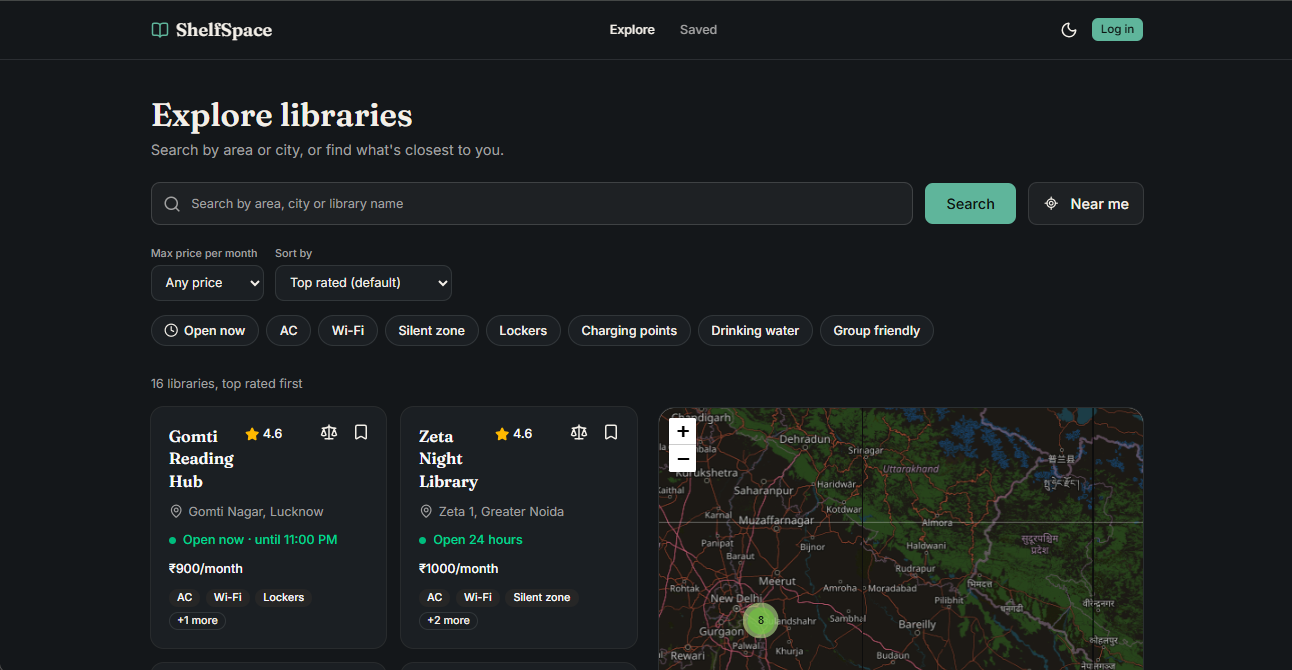
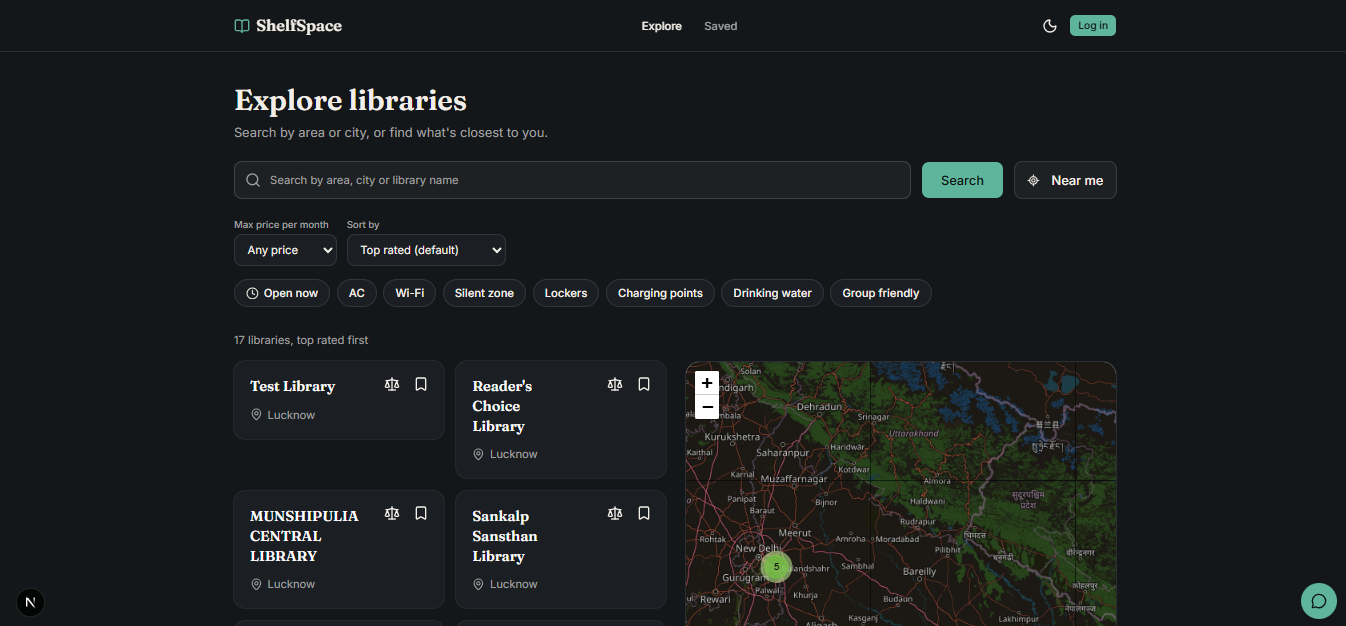
chore: remove sample data, add schema, README and env example for the real backend

diff --git a/src/app/api/ai-chat/route.ts b/src/app/api/ai-chat/route.ts
@@ -3,8 +3,21 @@ import { askAssistant, type ChatMessage } from "@/lib/ai";
 
 export async function POST(request: Request) {
   const body = await request.json().catch(() => null);
-  const messages: ChatMessage[] = Array.isArray(body?.messages) ? body.messages.slice(-6) : [];
-  if (messages.length === 0) return NextResponse.json({ error: "Missing messages" }, { status: 400 });
+  const messages: ChatMessage[] = (
+    Array.isArray(body?.messages) ? body.messages : []
+  )
+    .slice(-6)
+    .filter(
+      (m: ChatMessage) =>
+        (m?.role === "user" || m?.role === "assistant") &&
+        typeof m?.content === "string",
+    )
+    .map((m: ChatMessage) => ({
+      role: m.role,
+      content: m.content.slice(0, 500),
+    }));
+  if (messages.length === 0)
+    return NextResponse.json({ error: "Missing messages" }, { status: 400 });
 
   try {
     const reply = await askAssistant(messages);

diff --git a/src/lib/recommend.ts b/src/lib/recommend.ts
@@ -16,7 +16,7 @@ function amenitySimilarity(a: Library, b: Library): number {
 function priceSimilarity(a: Library, b: Library): number {
   const pa = a.details?.monthlyPrice;
   const pb = b.details?.monthlyPrice;
-  if (pa === undefined || pb === undefined) return 0.5; // unknown: stay neutral
+  if (pa === undefined || pb === undefined) return 0; // unknown: stay neutral
   const diff = Math.abs(pa - pb) / Math.max(pa, pb);
   return Math.max(0, 1 - diff * 2);
 }

diff --git a/src/components/footer.tsx b/src/components/footer.tsx
@@ -22,7 +22,7 @@ export function Footer() {
         </nav>
       </div>
       <div className="border-t py-4 text-center text-xs text-muted-foreground">
-        © {new Date().getFullYear()} ShelfSpace. A student project.
+        © {new Date().getFullYear()} ShelfSpace. A student project. Library locations from OpenStreetMap; fees and timings are added as they are verified.
       </div>
     </footer>
   );

diff --git a/src/lib/constants.ts b/src/lib/constants.ts
@@ -28,6 +28,6 @@ export function resolveSort(sort: SortKey | null | undefined, hasLocation: boole
   return sort ?? (hasLocation ? "distance" : "rating");
 }
 
-export const USING_SAMPLE_DATA = true;
+export const USING_SAMPLE_DATA = false;
 
 export const COMPARE_MAX = 3;

diff --git a/README.md b/README.md
@@ -6,92 +6,119 @@ Find libraries and study spaces near you, with the fees, timings and amenities t
 
 ![ShelfSpace landing page](docs/screenshots/landing.png)
 
-> **Status:** the frontend is complete and runs on sample data. The Supabase backend (real data and accounts) is the next phase.
+> **Data status:** library names and locations are real, imported from OpenStreetMap. Fees, timings and amenities are added only after manual verification, so only a few libraries have them so far. Everything else shows "Not verified yet" on purpose, and the app never presents unverified details as fact.
 
 ## Why this exists
 
-General directories and maps list every kind of business. For a student looking for somewhere to study, the details that matter, such as the monthly fee, day-wise timings, silent zones and lockers, are often missing or only available by phone. ShelfSpace is a focused finder for exactly that.
+General maps list every kind of business. A student looking for somewhere to study needs the monthly fee, day-wise timings, silent zones and lockers, and that information is often missing or available only by phone. ShelfSpace is a focused finder for that one decision.
 
 ## Features
 
-- **Search-first exploring** by name, area or city, with the search kept in the URL so links are shareable and the Back button works
-- **Near me:** browser geolocation, distance by the Haversine formula, and a 50 km radius
-- **Filters and sorting:** maximum monthly fee, amenities (must match all selected), an **Open now** filter that uses Indian time, and sort by rating, price or distance
-- **Interactive map** with clustered pins, side by side with the list on desktop and behind a List/Map toggle on mobile
-- **Library detail page:** fee, amenities, day-wise opening hours with today highlighted, a "last verified" date, a mini map and a directions link
-- **Save and compare:** bookmark libraries (kept in the browser for now) and compare up to 3 side by side through a shareable URL
-- **Login, signup and a Saved dashboard:** validated forms (UI only until the backend is connected)
-- **Dark mode, responsive layout, keyboard and screen-reader support,** and custom 404 and error pages
+- **Search and Near me:** search by name, area or city, or use browser geolocation. Distance is computed with the Haversine formula within a 50 km radius.
+- **Filters and sorting:** maximum monthly fee, amenities, an **Open now** filter evaluated in Indian time, and sorting by rating, price or distance. All of it lives in the URL, so searches are shareable and the Back button works.
+- **Interactive map:** clustered pins, side by side with the list on desktop and behind a List/Map toggle on mobile.
+- **Library detail page:** fee, amenities, day-wise hours with today highlighted, a "last verified" date, a mini map and directions.
+- **Accounts:** email and password sign-up, login, logout and password reset, using Supabase Auth with cookie sessions.
+- **Saved libraries per account:** stored in PostgreSQL and protected by Row-Level Security. Guests can save locally, and those saves merge into the account on login.
+- **Compare:** up to 3 libraries side by side, through a shareable link.
+- **Similar libraries:** content-based recommendations (Jaccard similarity on amenities, plus price) on each detail page.
+- **AI assistant:** a chat widget that answers only from the database contents and says "I don't have that information" otherwise.
+- **Accessible and responsive:** dark mode, keyboard support, labelled controls, reduced-motion support, custom 404 and error pages.
 
-## Screenshots
+## Architecture
 
-| Explore with map | Library detail |
-|---|---|
-| ![Explore](docs/screenshots/explore.png) | ![Detail](docs/screenshots/detail.png) |
+```
+OpenStreetMap ──► Overpass API ──► ingestion script ──► Supabase PostgreSQL
+                  (mirror failover)  (idempotent upsert)  ├─ libraries           (auto-fetched facts)
+                                                          ├─ library_details     (manually verified)
+                                                          └─ saved_libraries     (per user, RLS)
+                                                                   │
+Browser ◄── Next.js (App Router, server components) ◄──────────────┘
+   │             ├─ data-access layer (lib/data)
+   │             ├─ session-refresh proxy (Supabase SSR cookies)
+   │             └─ /api/ai-chat ──► Gemini (grounded on database records)
+   └── Supabase Auth (signup, login, password reset via PKCE)
+```
 
-| Compare | Light mode |
-|---|---|
-| ![Compare](docs/screenshots/compare.png) | ![Light mode](docs/screenshots/light-mode.png) |
+### Data model and security
 
+| Table | Purpose | Who can read | Who can write |
+|---|---|---|---|
+| `libraries` | Name, address, coordinates from OpenStreetMap | Everyone | Ingestion script only (service role) |
+| `library_details` | Fee, timings, amenities, last-verified date | Everyone | Manual verification |
+| `saved_libraries` | One row per (user, library) bookmark | Only the owner | Only the owner |
 
-## Tech stack and why
+Auto-fetched facts and manually verified details are kept in separate tables on purpose, so unverified data can never be mistaken for verified data. The owner column defaults to `auth.uid()` in the database, so the app never sends a user id the client could forge.
+
+## Tech stack
 
 | Layer | Choice | Why |
 |---|---|---|
-| Framework | Next.js (App Router) and TypeScript | Server components, file-based routing, and compile-time type safety |
-| Styling and UI | Tailwind CSS and shadcn/ui | Accessible components that live in the repo, so they are fully customizable |
-| URL state | nuqs | Type-safe search params, so filters are shareable and Back works |
-| Forms | React Hook Form and Zod | Uncontrolled inputs for speed, and one schema for rules and types |
-| Maps | Leaflet, react-leaflet, react-leaflet-cluster, OpenStreetMap | Free, with no API key or billing |
-| Hosting | Vercel | Automatic deploys on every push |
+| Framework | Next.js (App Router) and TypeScript | Server rendering, file-based routing, type safety |
+| Database and auth | Supabase (PostgreSQL, Auth, Row-Level Security) | Security is enforced in the database, not only in app code |
+| Styling | Tailwind CSS and shadcn/ui | Accessible components that live in the repo |
+| URL state | nuqs | Type-safe, shareable search state |
+| Forms | React Hook Form and Zod | One schema for validation rules and types |
+| Maps | Leaflet, OpenStreetMap tiles, marker clustering | Free, no API key or billing |
+| AI | Google Gemini, grounded in database records | Free tier; grounding prevents invented libraries |
+| Hosting | Vercel | Automatic deploys from `main` |
 
-## Architecture highlights
+## Engineering decisions
 
-- **Data-access layer** (`src/lib/data`): pages call functions like `searchLibraries()`. Today they read sample data. Connecting Supabase later changes those functions, not the UI.
-- **Server-side filtering:** search, filters and sorting are URL parameters read on the server, so the browser downloads less JavaScript and every view is a shareable link.
-- **Time-zone-safe "Open now":** servers run in UTC, so opening hours are evaluated in `Asia/Kolkata` with `Intl.DateTimeFormat`, including hours that run past midnight.
-- **Honest data:** the UI shows "Not verified yet" when there's no verification date and marks sample listings as sample data. It never claims more than it knows.
-- **Accessibility:** skip link, labelled controls, `aria-pressed` toggles, `aria-live` result counts, a keyboard-focusable scrollable table, and reduced-motion support.
+- **Data-access layer:** pages call `searchLibraries()` and similar functions, never the database directly. I moved from sample data to Supabase by changing those functions only.
+- **Idempotent ingestion with failover:** the OpenStreetMap importer upserts by a stable id, so it is safe to rerun. The public Overpass server often returns 502, so it retries on mirror servers.
+- **Time-zone-safe "Open now":** servers run in UTC, so opening hours are evaluated in `Asia/Kolkata`, including hours that pass midnight.
+- **Honest data:** a library without a verification date says "Not verified yet".
+- **AI used where it fits:** the chat assistant is grounded on database records. Recommendations use plain set-similarity math, because that needs no model.
+- **Optimistic UI:** bookmarking updates the screen instantly and rolls back if the database refuses.
+- **Auth details:** a proxy refreshes sessions, password reset uses PKCE, reset responses don't reveal which emails have accounts, and redirect targets are validated.
 
 ## Performance and accessibility
 
-PageSpeed Insights, mobile, production deployment (20 Sep 2026):
+PageSpeed Insights, mobile, on the production deployment, measured on DD Mon YYYY:
 
 | Performance | Accessibility | Best Practices | SEO |
 |---|---|---|---|
-| 93 | 96 | 100 | 100 |
-
-Total Blocking Time 20 ms and Cumulative Layout Shift 0.
+| XX | XX | XX | XX |
 
 ## Getting started
 
-Requires Node.js 20 or newer.
+Requires Node.js 20+ and a free [Supabase](https://supabase.com) project.
 
 ```bash
 git clone https://github.com/shubhitiwariiii/shelfspace-v2.git
 cd shelfspace-v2
 npm install
-npm run dev
+cp .env.example .env.local      # then fill in your values
 ```
 
-Open http://localhost:3000. For a production build: `npm run build && npm run start`.
+1. In the Supabase SQL Editor, run `supabase/schema.sql`.
+2. In Supabase **Authentication → URL Configuration**, add `http://localhost:3000/**` to the Redirect URLs.
+3. Import real libraries: `npm run fetch:osm`
+4. Start the app: `npm run dev` and open http://localhost:3000
+
+| Variable | Used for | Keep private? |
+|---|---|---|
+| `NEXT_PUBLIC_SUPABASE_URL` | Supabase project URL | No |
+| `NEXT_PUBLIC_SUPABASE_ANON_KEY` | Public key, limited by Row-Level Security | No |
+| `SUPABASE_SERVICE_ROLE_KEY` | Ingestion script only. Bypasses security rules | **Yes. Never deploy it** |
+| `GEMINI_API_KEY` | AI assistant | **Yes** |
 
 ## Project structure
 
 ```
-src/
-├── app/                 # routes: explore, library/[id], compare, dashboard, login, signup, api
-├── components/          # UI: cards, filters, map, auth forms (ui/ holds shadcn components)
-├── lib/                 # data layer, search params, open-now logic, schemas, stores
-└── mock/                # sample libraries
-docs/screenshots/        # images used in this README
+src/app/            routes: explore, library/[id], compare, dashboard, login, signup,
+                    forgot-password, reset-password, auth/callback, api
+src/components/     UI components (ui/ holds shadcn components)
+src/lib/            data layer, Supabase clients, auth, search params, open-now logic
+scripts/            OpenStreetMap ingestion script
+supabase/           database schema
 ```
 
-## Roadmap
+## Known limitations and roadmap
 
-- [ ] Supabase: PostgreSQL, Auth and Row Level Security
-- [ ] Idempotent OpenStreetMap ingestion script, with verified data in a separate table
-- [ ] Real login, with saved libraries synced per account
-- [ ] Reviews, an owner-verification flow and an admin panel
-- [ ] Automated tests (Vitest and Playwright)
-- [ ] Automated tests (Vitest and Playwright)
+- Few libraries have verified fees and timings. An owner or admin verification flow is the main next feature.
+- The AI chat route has input caps but no per-user rate limiting.
+- Password-reset emails use Supabase's built-in sender, which is limited. Production would use custom SMTP.
+- No automated tests yet. Next: unit tests for distance and open-now logic, and end-to-end tests for login and saving.
+- Reviews and ratings, and more cities.
